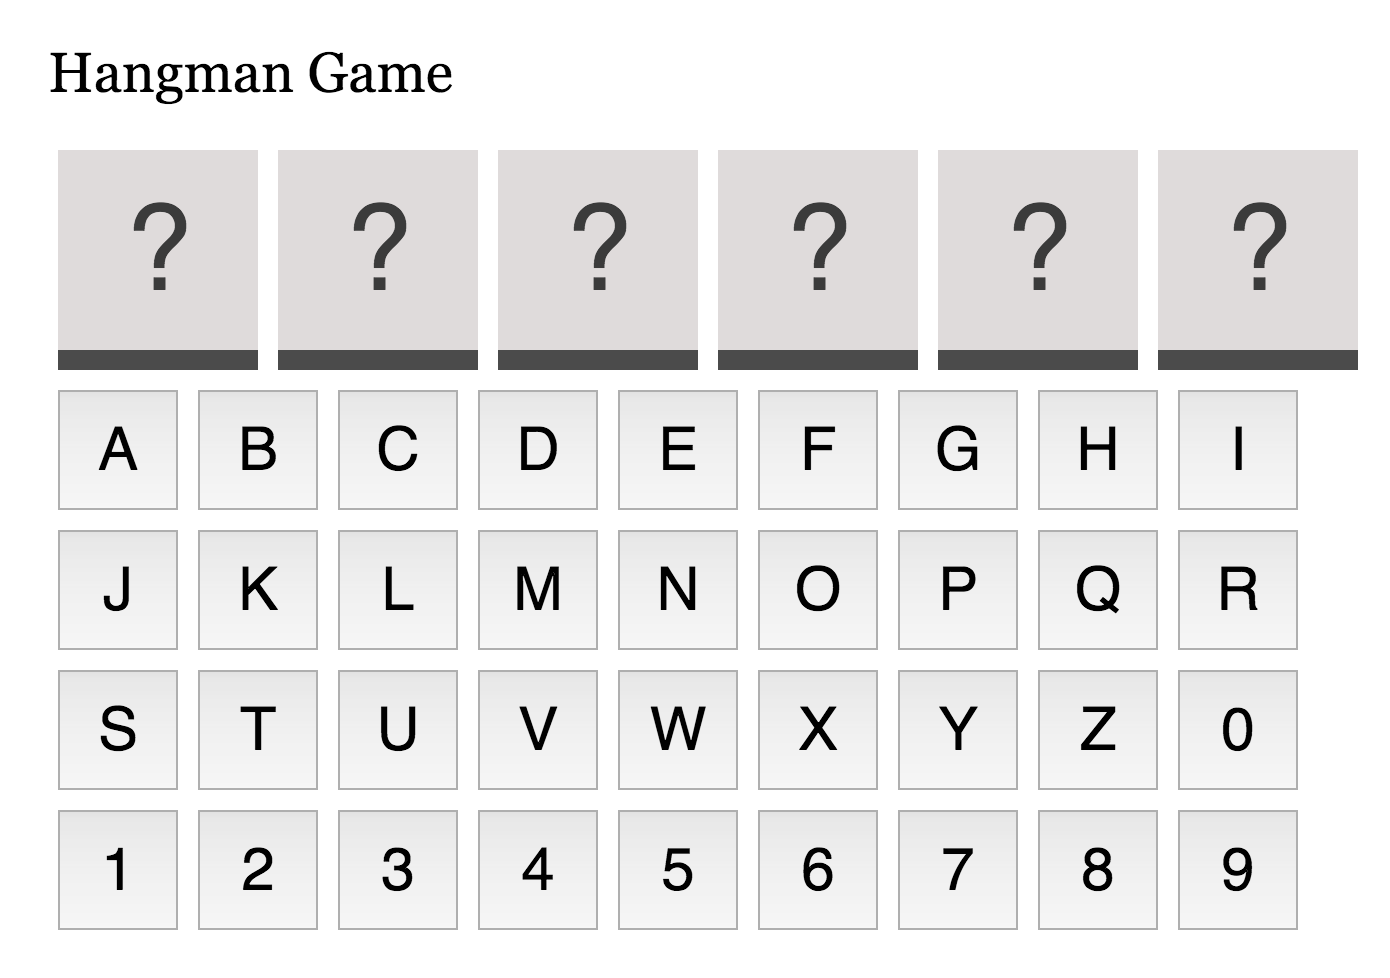
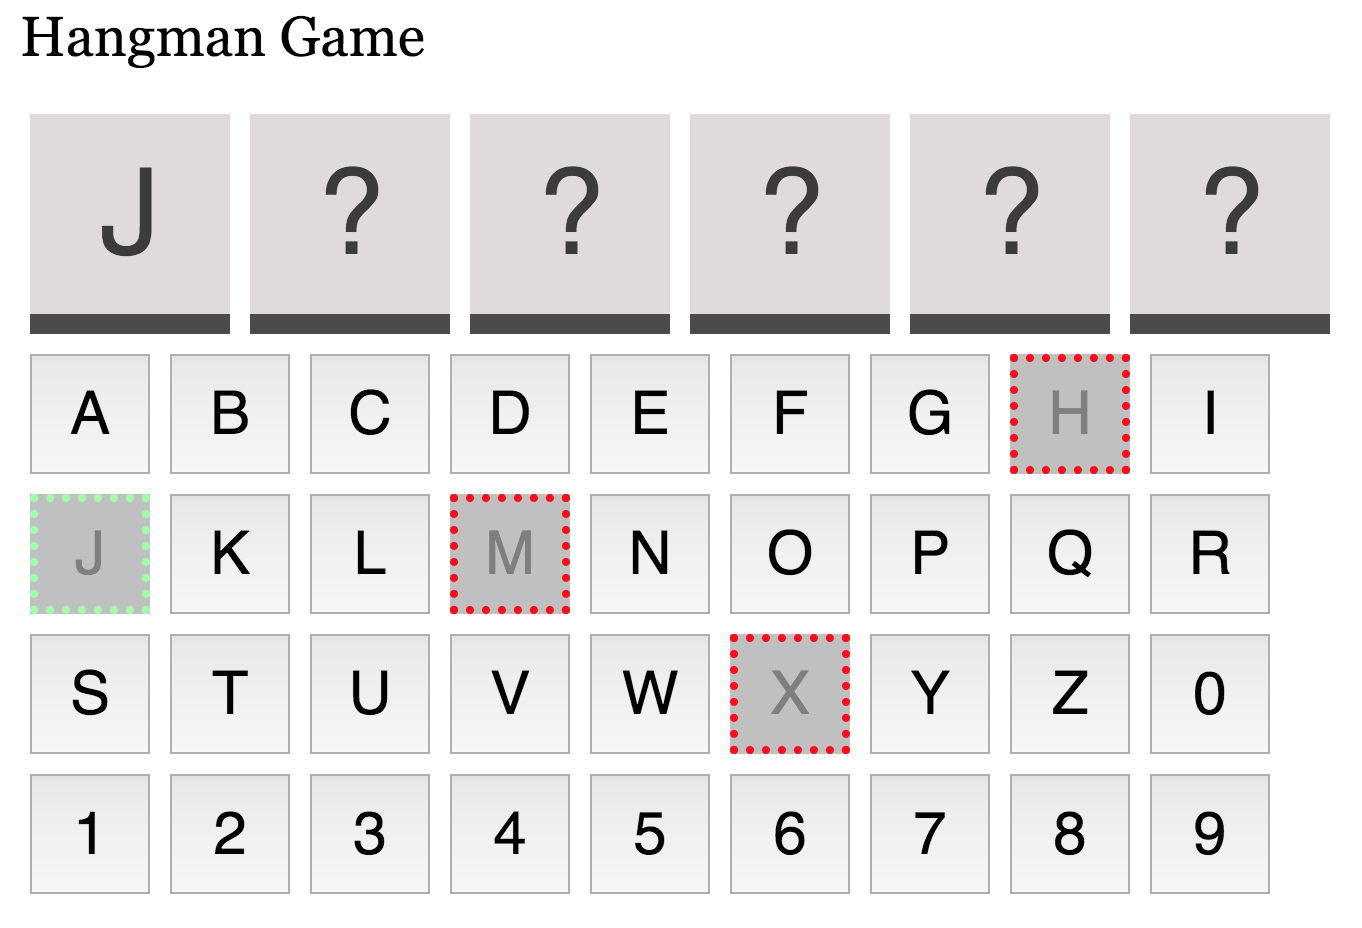
update doc

Changed region(s): [[0.0, 0.0, 0.9868, 0.9688], [0.0617, 0.875, 0.0925, 0.9062]]

diff --git a/css/hangman.css b/css/hangman.css
@@ -36,6 +36,10 @@
   font: 30px sans-serif;
 }
 
+.hangman-keyboard--button_found {
+  border: 4px #9dffaa dotted;
+}
+
 .hangman-keyboard--button_error {
   border: 4px #f00 dotted;
 }

diff --git a/README.md b/README.md
@@ -9,4 +9,4 @@ A Drupal module that adds a hangman game to your website.
 - Enter Drupal administration
 - Go to _Modules_ page
 - Enable module `Hangman Game`
-- Go to page `/hangman`
+- Go to URL `/hangman`
